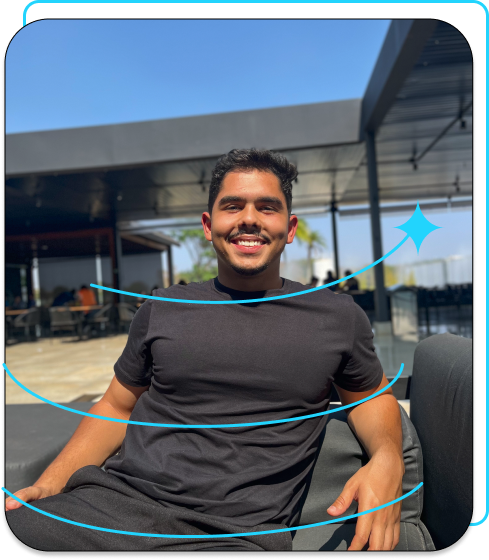
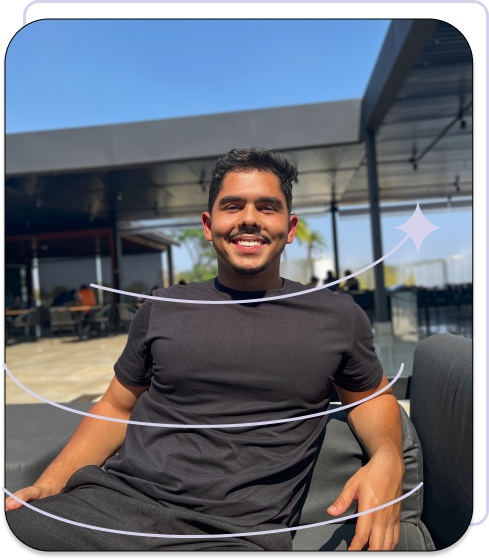
Alteração 07/02

diff --git a/index.html b/index.html
@@ -26,31 +26,36 @@
           Olá! Sou Kauã Fernandes, focado em Desenvolvemento Web com
           especialidade em HTML, CSS, JavaScript, Bootstrap e React. Estou em
           busca da minha primeira experincia na area de trabalho pois quero
-          desenvolver novas habilidades. Vamos conversar?
+          desenvolver novas habilidades.
         </p>
+
         <div class="apresentacao__links">
-          <h2 class="apresentacao__links__subtitulo">Acesse minhas redes:</h2>
+          <h2 class="apresentacao__conteudo__texto">
+            <strong class="titulo_destaque_2">Vamos conversar?</strong>
+          </h2>
+          <p class="apresentacao__links__subtitulo">Acesse minhas redes:</p>
           <a
-            class="apresentacao__links__link"
+            class="apresentacao__links__navegacao"
             href="https://github.com/kauaftavares21"
-            ><img src="./assets/github.png" />GitHub</a
+            ><img src="./assets/Github.png" />GitHub</a
           >
           <a
-            class="apresentacao__links__link"
+            class="apresentacao__links__navegacao"
             href="https://www.linkedin.com/in/kauã-fernandes-809665252/"
-            ><img src="./assets/linkedin.png" />Linkedln</a
+            ><img src="./assets/Linkedln.png" />Linkedln</a
           >
           <a
-            class="apresentacao__links__link"
+            class="apresentacao__links__navegacao"
             href="https://www.instagram.com/kauafernandes21/"
-            ><img src="./assets/instagram.png" />Instagram</a
+            ><img src="./assets/Instagram.png" />Instagram</a
           >
         </div>
       </section>
-      <img src="./assets/image.png" alt="Foto Kauã Fernandes" />
+      <img
+        class="apresentacao__imagem"
+        src="./assets/image.png"
+        alt="Foto Kauã Fernandes"
+      />
     </main>
-    <footer class="rodape">
-      <p>Desenvolvido por Kaua Fernandes</p>
-    </footer>
   </body>
 </html>

diff --git a/curriculum.html b/curriculum.html
@@ -18,29 +18,29 @@
         <section class="apresentacao__conteudo">
             <h1 class="apresentacao__conteudo__titulo">Currículo</h1>
             <p class="apresentacao__conteudo__texto">
-                Apresentação e informações principais
+              Olá! Sou Kauã Tavares, tenho 21 anos e sou estudante de Análise e 
+              Desenvolvimento de Sistemas, estou no terceiro semestre. Procuro 
+              oportunidade de desenvolver minhas habilidades na área de TI agregando valor, 
+              conhecimento e inovação na sua empresa 
             </p>
             <h2 class="apresentacao__conteudo__titulo">Experiências</h2>
             <p class="apresentacao__conteudo__texto">
             <ul class="apresentacao__conteudo__texto">
-                <li> Empresa tal (2020 - 2021) - fazia isso e aquilo </li>
+                <li> Empresa tal (2020 - 2021) - fazia isso e aquilo </li><br>
                 <li> Empresa tal (2021 - 2023) - fazia isso e aquilo </li>
             </ul>
             </p>
             <h2 class="apresentacao__conteudo__titulo">Estudos</h2>
             <div class="apresentacao__conteudo__texto">
             <ul class="apresentacao__conteudo__texto">
-                <li>Curso tal - Alura Cursos <a href="linkdocertificado">com certificado</a> </li>
+                <li>Curso tal - Alura Cursos <a href="linkdocertificado">com certificado</a></li>
                 <li>Curso tal - Alura Cursos <a href="linkdocertificado">com certificado</a></li>
                 <li>Curso tal - Alura Cursos <a href="linkdocertificado">com certificado</a></li>
             </ul>
             </div>    
         </section>
-        <img src="./assets/image.png" alt="Foto Kauã Fernandes" />
-    </main> 
-    <footer class="rodape">
-      <p>Desenvolvido por Kaua Fernandes</p>
-    </footer>
+        <img class="apresentacao__imagem" src="./assets/image.png" alt="Foto Kauã Fernandes" />
+    </main>
   </body>
 </html>
 

diff --git a/about.html b/about.html
@@ -18,14 +18,14 @@
       <section class="apresentacao__conteudo">
         <h1 class="apresentacao__conteudo__titulo">Sobre mim</h1>
         <p class="apresentacao__conteudo__texto">
-          Sou um estudante de Análise e Desenvolvimento de Sistemas, tenho 21
-          anos e estou iniciando minha jornada na carreira de desenvolvimento
-          web. Embora ainda não tenha experiência profissional na área, estou
-          dedicando meu tempo aos estudos para adquirir as habilidades e
-          conhecimentos necessários para conquistar minha primeira oportunidade.
-          Minha principal motivação é crescer como desenvolvedor e construir uma
-          base sólida para minha carreira, sempre buscando aprendizado contínuo
-          e aprimoramento técnico.
+          Me chamo Kaua Fernandes sou um estudante de Análise e Desenvolvimento
+          de Sistemas, tenho 21 anos e estou iniciando minha jornada na carreira
+          de desenvolvimento web. Embora ainda não tenha experiência
+          profissional na área, estou dedicando meu tempo aos estudos para
+          adquirir as habilidades e conhecimentos necessários para conquistar
+          minha primeira oportunidade. Minha principal motivação é crescer como
+          desenvolvedor e construir uma base sólida para minha carreira, sempre
+          buscando aprendizado contínuo e aprimoramento técnico.
         </p>
         <p class="apresentacao__conteudo__texto">
           Atualmente, estou focado no estudo de tecnologias fundamentais para o
@@ -36,10 +36,11 @@
           me permitam evoluir constantemente.
         </p>
       </section>
-      <img src="./assets/image.png" alt="Foto Kauã Fernandes" />
+      <img
+        class="apresentacao__imagem"
+        src="./assets/image.png"
+        alt="Foto Kauã Fernandes"
+      />
     </main>
-    <footer class="rodape">
-      <p>Desenvolvido por Kaua Fernandes</p>
-    </footer>
   </body>
 </html>

diff --git a/styles/style.css b/styles/style.css
@@ -2,10 +2,10 @@
 @import url("https://fonts.googleapis.com/css2?family=Montserrat:ital,wght@0,100..900;1,100..900&family=Poppins:wght@400;600&display=swap");
 
 :root {
-  --cor-primaria: #b59f78;
-  --cor-secundaria: #2a3663;
-  --cor-terciaria: #d8dbbd;
-  --cor-hover: #faf6e3;
+  --cor-primaria: #404042;
+  --cor-secundaria: #e3f0fa;
+  --cor-terciaria: #5378a8;
+  --cor-hover: #8e9396;
 
   --fonte-k: "Krona One", sans-serif;
   --fonte-m: "Montserrat", serif;
@@ -48,14 +48,14 @@ body {
 }
 
 .apresentacao__conteudo {
-  width: 615px;
+  width: 50%;
   display: flex;
   flex-direction: column;
   gap: 40px;
 }
 
 .apresentacao__conteudo__titulo {
-  font-size: 36px;
+  font-size: 38px;
   font-family: var(--fonte-k);
 }
 
@@ -68,6 +68,16 @@ body {
   font-family: var(--fonte-m);
   text-decoration: none;
   color: var(--cor-secundaria);
+}
+
+.titulo_destaque_2 {
+  display: flex;
+  flex-direction: column;
+  font-size: 32px;
+  font-family: var(--fonte-k);
+  align-items: center;
+  color: var(--cor-terciaria);
+  gap: 40px;
 }
 
 .apresentacao__links {
@@ -84,13 +94,13 @@ body {
   font-size: 24px;
 }
 
-.apresentacao__links__link {
+.apresentacao__links__navegacao {
   /* background-color: #22d4fd; */
   display: flex;
   justify-content: center;
   gap: 16px;
   border: 2px solid var(--cor-terciaria);
-  width: 378px;
+  width: 50%;
   text-align: center;
   border-radius: 8px;
   font-size: 24px;
@@ -105,12 +115,6 @@ body {
   background-color: var(--cor-hover);
 }
 
-.rodape {
-  padding: 24px;
-  color: var(--cor-primaria);
-  background-color: var(--cor-terciaria);
-  text-align: center;
-  font-family: var(--fonte-m);
-  font-size: 24px;
-  font-weight: 400;
+.apresentacao__imagem {
+  width: 50%;
 }
